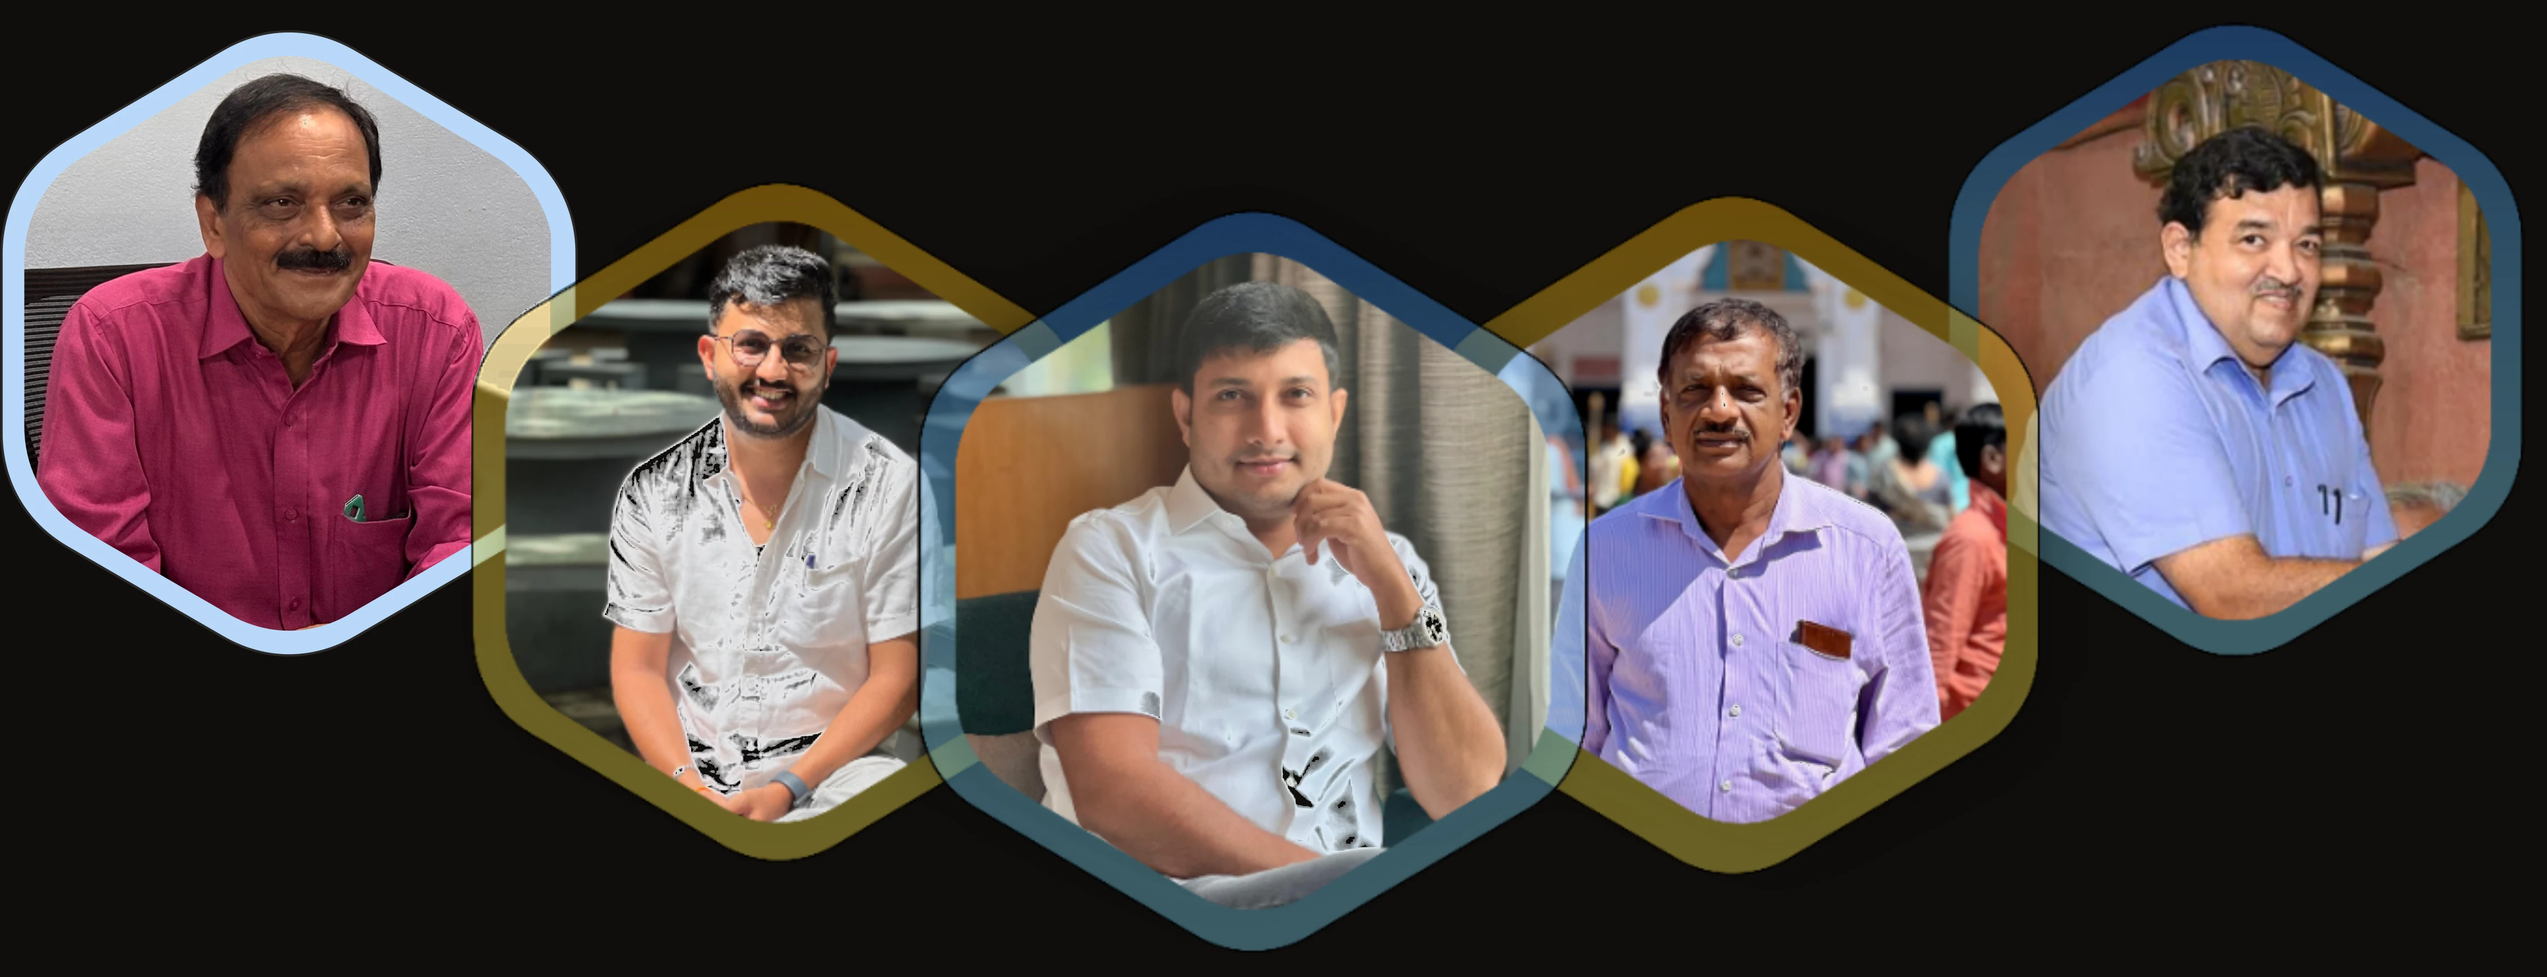
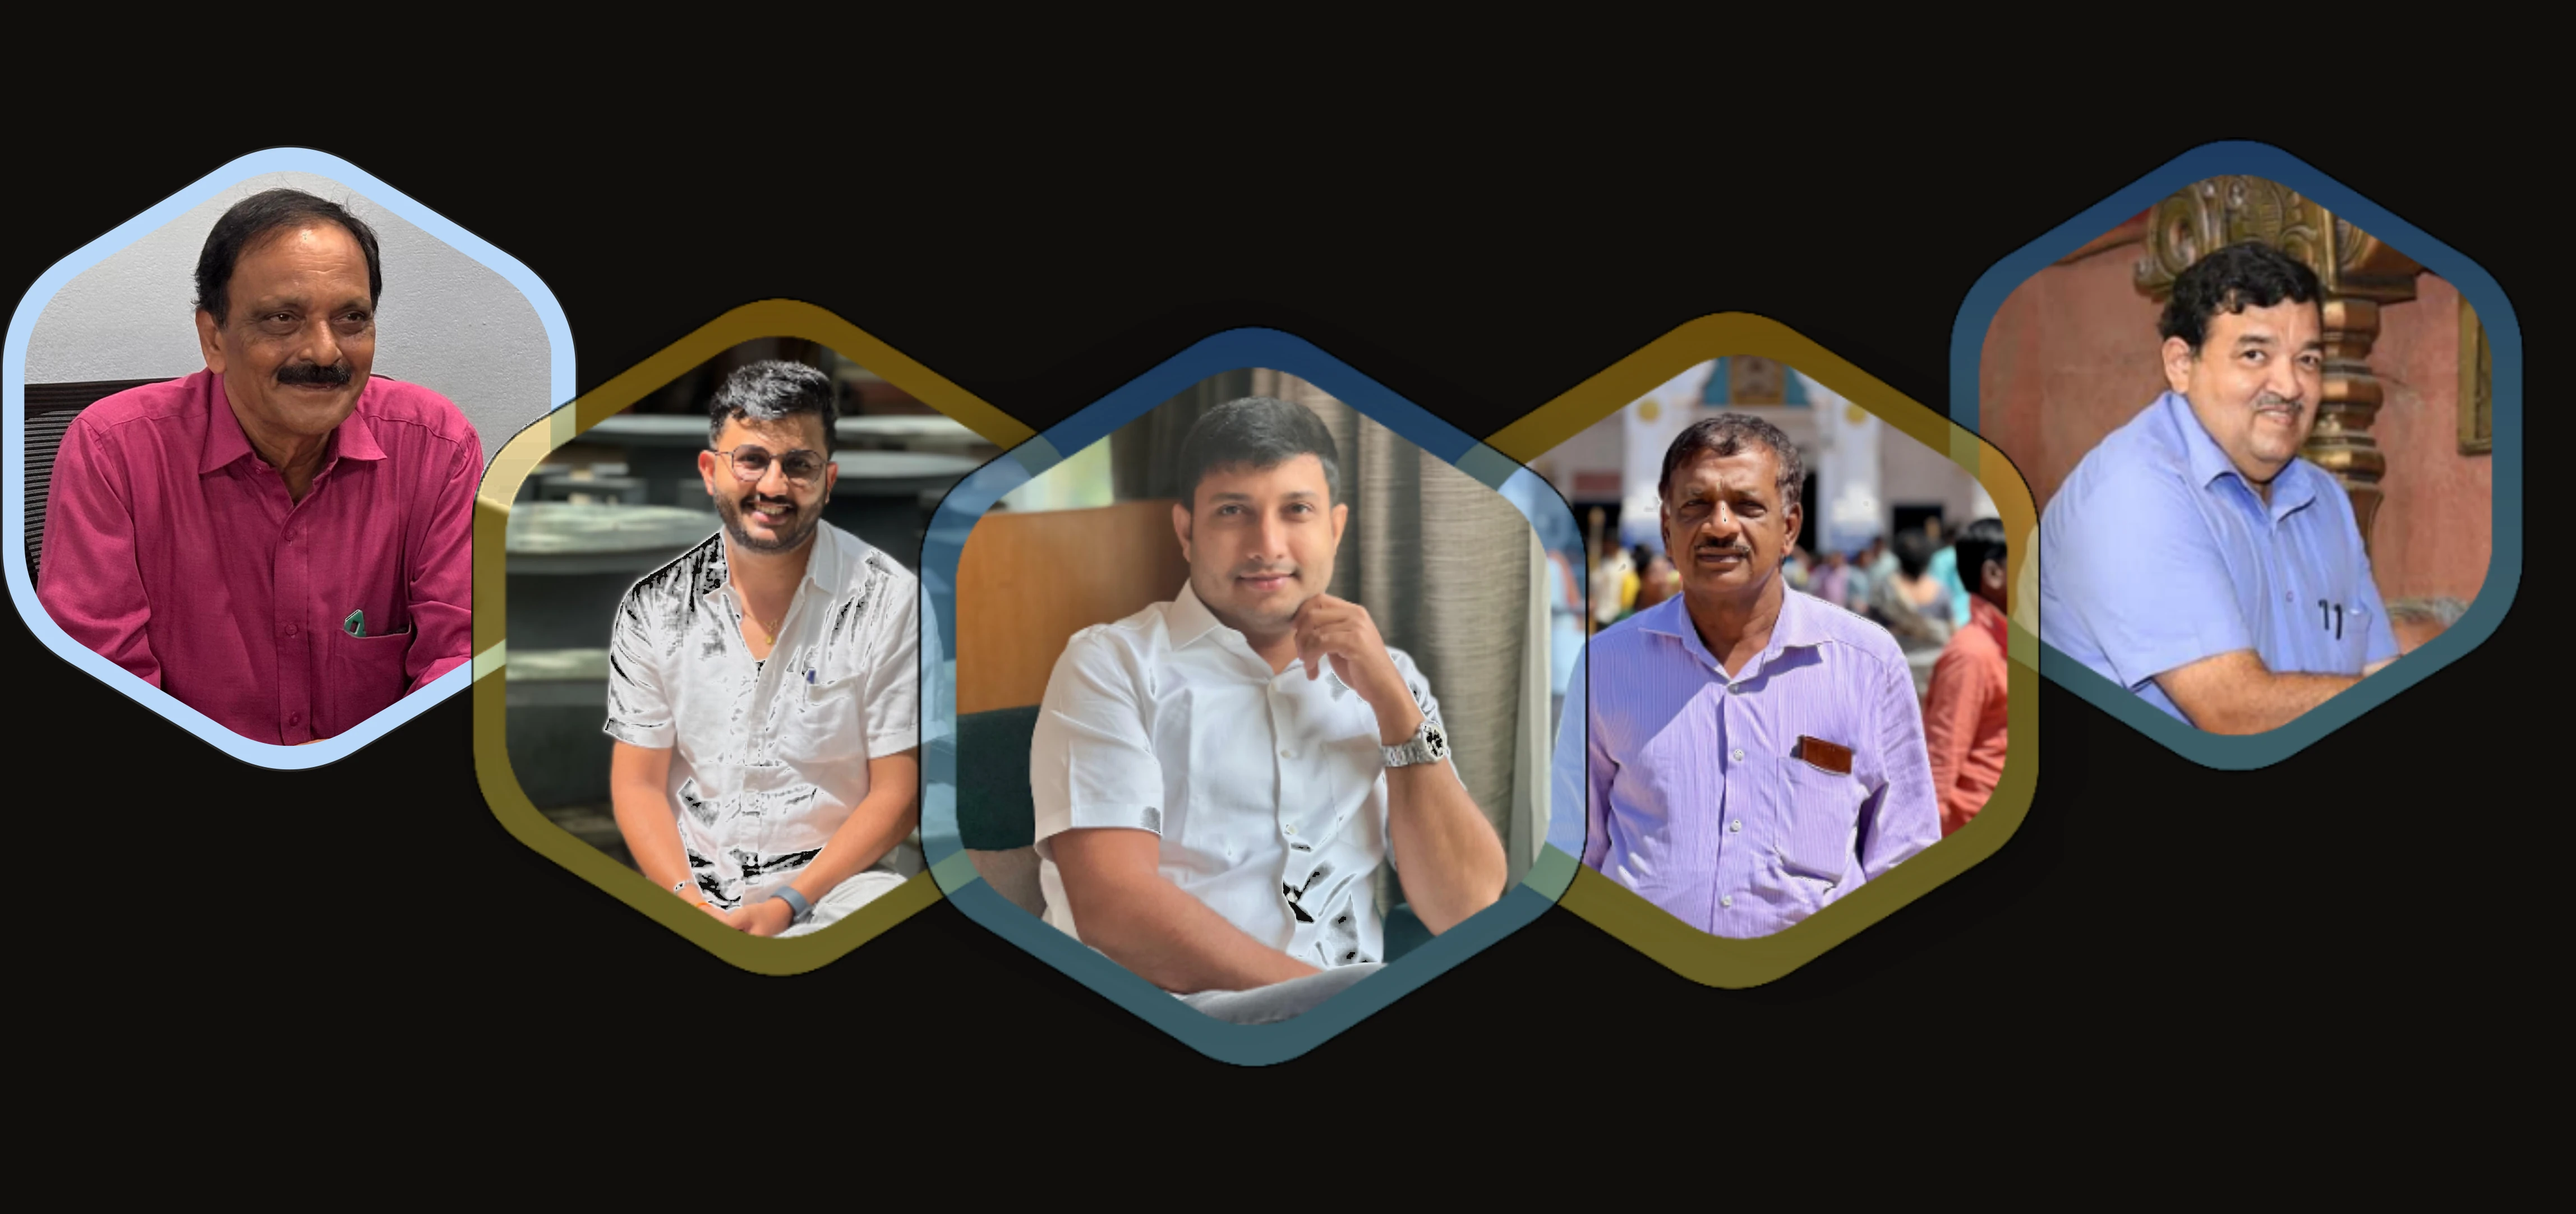
Enhance team section layout and update team image
- Increased margin for the team block and adjusted padding for better spacing.
- Updated image properties for responsiveness and visual appeal.
- Revised grid layout and gap settings for improved alignment.
- Replaced team image with a higher resolution version for better quality.

diff --git a/index.html b/index.html
@@ -1128,27 +1128,29 @@ tr.in .qbar i{width:var(--w,50%);}
 .paybar i:nth-child(3){transition-delay:.32s;}
 
 /* team */
-.team-block{margin-top:.2rem;}
+.team-block{margin-top:.4rem;}
 .team-figure{
   background:transparent;
   border:none;
   border-radius:0;
   overflow:visible;
-  max-width:980px;
-  margin:0 auto;
+  width:100%;
+  margin:0;
 }
 .team-figure img{
   width:100%;
+  max-width:none;
   height:auto;
   display:block;
-  filter:drop-shadow(0 18px 40px rgba(0,0,0,.35));
+  object-fit:contain;
+  object-position:center center;
 }
 .team-grid{
   display:grid;
   grid-template-columns:repeat(5,minmax(0,1fr));
-  gap:clamp(.6rem,1.5vw,1.2rem);
-  max-width:980px;
-  margin:1.1rem auto 0;
+  gap:clamp(.5rem,1.2vw,1rem);
+  width:100%;
+  margin:.85rem 0 0;
   background:transparent;
   border:none;
   border-radius:0;
@@ -1156,14 +1158,14 @@ tr.in .qbar i{width:var(--w,50%);}
 }
 .team-grid > div{
   background:transparent;
-  padding:.35rem .25rem .15rem;
+  padding:.25rem .2rem .1rem;
   text-align:center;
   border-top:1px solid rgba(207,138,111,.22);
-  padding-top:.85rem;
+  padding-top:.8rem;
 }
 .team-grid .tn{
   font-family:var(--font-sans);
-  font-size:clamp(.72rem,.68rem + .15vw,.86rem);
+  font-size:clamp(.74rem,.7rem + .18vw,.9rem);
   font-weight:500;
   line-height:1.35;
   color:var(--paper);
@@ -2548,7 +2550,7 @@ footer.site .f-bot{
 
       <div class="team-block" data-reveal="scale">
         <div class="team-figure">
-          <img src="assets/team.webp" alt="The Aapaavani team — S Somashekaran, Dr Vishnu Sharma Atikukke, Chinmaya Delampady, B Krishnappa and Dr H N Udaya Shankar" loading="lazy" width="1600" height="720">
+          <img src="assets/team.webp" alt="The Aapaavani team — S Somashekaran, Dr Vishnu Sharma Atikukke, Chinmaya Delampady, B Krishnappa and Dr H N Udaya Shankar" loading="lazy" width="1600" height="754">
         </div>
         <div class="team-grid">
           <div><div class="tn">Mr. S Somashekaran</div><div class="tr">VP — Operations</div></div>
